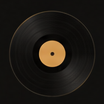
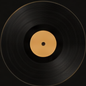
text

diff --git a/app.js b/app.js
@@ -1,5 +1,5 @@
 const media = window.MEDIA || {};
-const ASSET_VERSION = "20260724-2";
+const ASSET_VERSION = "20260724-3";
 
 const source = (label, shortLabel, embed, language = "ru") => ({
   label,
@@ -27,9 +27,9 @@ const library = [
     art: "pulp",
     poster: "./films/Криминальное чтиво/Обложка_криминальное_чтиво.jpg",
     music: [{ title: "Misirlou", artist: "Dick Dale & His Del-Tones", src: "./films/Криминальное чтиво/Dick Dale & His Del Tones - Misirlou.mp3" }],
-    quote: "Идеальное кино, чтобы снова полюбить разговоры ни о чём.",
+    quote: "Путь праведника труден, ибо препятствуют ему себялюбивые и тираны из злых...",
     summary:
-      "Две истории о гангстерах, роковых совпадениях и людях, которые очень стараются выбраться из неприятностей — обычно ещё глубже в них погружаясь.",
+      "Несколько историй из жизни Лос-Анджелеса, которые парадоксальным образом связываются в одну. Киллеры-философы, жена мафиози и боксер-беглец то и дело попадают в абсурдные ситуации, где одно неверное решение меняет всё.",
     sources: [
       {
         label: "Русская озвучка",
@@ -55,9 +55,9 @@ const library = [
     accent: "#bf302b",
     art: "dogs",
     poster: "./films/Бешеные псы/Обложка_бешеные_псы.jpeg",
-    quote: "Когда идеальный план ломается ещё до начала титров.",
+    quote: "Я не оставляю чаевые. Я не верю в них",
     summary:
-      "Ограбление пошло не по плану. Выжившие собираются на складе и пытаются понять, кто из них предатель, пока недоверие становится опаснее полиции.",
+      "Спланированное ограбление ювелирного магазина с самого начала идет не по плану. Выжившие преступники собираются на заброшенном складе, понимая, что среди них есть агент под прикрытием.",
     sources: [
       { label: "Часть 1", shortLabel: "Часть 1", embed: media.reservoirDogsPart1 },
       { label: "Часть 2", shortLabel: "Часть 2", embed: media.reservoirDogsPart2 }
@@ -74,9 +74,9 @@ const library = [
     art: "cunk",
     poster: "./films/Канк на Земле/Обложка_канк_на_земле.webp",
     music: [{ title: "Pump Up the Jam", artist: "Technotronic", src: "./films/Канк на Земле/Technotronic - Pump up the Jam.mp3" }],
-    quote: "Вся история человечества — уверенно, красиво и совершенно неправильно.",
+    quote: "Что было более важным для человечества: изобретение колеса или песня \"Pump Up the Jam\"",
     summary:
-      "Филомена Канк задаёт экспертам главные вопросы цивилизации и с невозмутимым лицом превращает документальный сериал в очень британскую комедию.",
+      "Британский псевдодокументальный проект, где эксцентричная ведущая Филомена Канк путешествует по миру и берет интервью у реальных ведущих историков, антропологов и профессоров, задавая им абсурдные вопросы с абсолютно серьезным лицом.",
     sources: Array.from({ length: 5 }, (_, index) => ({
       label: `Эпизод ${index + 1}`,
       shortLabel: `${index + 1}`,
@@ -87,32 +87,32 @@ const library = [
     id: "acrimony", title: "Раздражительность", originalTitle: "Acrimony", year: "2018",
     type: "Фильм", runtime: "2 ч", accent: "#843d47", art: "dogs",
     poster: "./films/Раздражительность/Обложка_раздражительность.jpg",
-    quote: "Когда преданность превращается в ярость.",
-    summary: "История женщины, которая годами поддерживала мужа, а после распада брака начинает сомневаться, не отдала ли она ему слишком многое.",
+    quote: "Этот с#ка мне должен... Каждый чертов вздох в его теле",
+    summary: "Мелинда — верная и любящая жена, которая годами поддерживала своего мужа-изобретателя, жертвуя ради него деньгами и доверием семьи. Однако, когда его многолетний труд наконец признают, Мелинда начинает подозревать, что муж ведет двойную игру.",
     sources: [source("Русская озвучка", "Русский", media.acrimonyRussian)]
   },
   {
     id: "final-analysis", title: "Окончательный анализ", originalTitle: "Final Analysis", year: "1992",
     type: "Фильм", runtime: "2 ч 4 мин", accent: "#876f92", art: "pulp",
     poster: "./films/Окончательный анализ/Обложка_окончательный_анализ.jpg",
-    quote: "Желание, обман и диагноз, которому нельзя доверять.",
-    summary: "Психиатр оказывается втянут в опасную связь с сестрой своей пациентки — и вскоре уже не понимает, кто здесь жертва, а кто ведёт игру.",
+    quote: "Вы когда-нибудь путали страсть с одержимостью?",
+    summary: "Успешный психиатр берется помочь женщине, страдающей от навязчивых кошмаров. В процессе терапии он знакомится с ее загадочной сестрой, и эта встреча вовлекает его в опасный заговор, где профессиональная этика сталкивается с личным риском.",
     sources: [source("Русская озвучка", "Русский", media.finalAnalysisRussian)]
   },
   {
     id: "once-upon-a-time-in-hollywood", title: "Однажды в… Голливуде", originalTitle: "Once Upon a Time... in Hollywood", year: "2019",
     type: "Фильм", runtime: "2 ч 41 мин", accent: "#d68c3a", art: "cunk",
     poster: "./films/Однажды в… Голливуде/Обложка_однажды_в_голливуде.webp",
-    quote: "Голливуд, каким он был — или каким его хочется помнить.",
-    summary: "Угасающая звезда телевестернов и его дублёр ищут своё место в стремительно меняющемся Голливуде 1969 года.",
+    quote: "В Голливуде все может измениться в одно мгновение",
+    summary: "Лос-Анджелес, 1969 год. Популярный актер вестернов, чья карьера идет на спад, пытается удержаться в меняющейся киноиндустрии вместе со своим неизменным дублером. В это же время по соседству с ними поселяется молодая и успешная кинозвезда Шарон Тейт.",
     sources: [source("Русская озвучка", "Русский", media.onceHollywoodRussian)]
   },
   {
     id: "inglourious-basterds", title: "Бесславные ублюдки", originalTitle: "Inglourious Basterds", year: "2009",
     type: "Фильм", runtime: "2 ч 33 мин", accent: "#a43a2f", art: "dogs",
     poster: "./films/Бесславные ублюдки/Обложка_бесславные_ублюдки.jpg",
-    quote: "История переписывается в кинотеатре.",
-    summary: "Отряд американских солдат и хозяйка парижского кинотеатра независимо друг от друга готовят расплату нацистскому руководству.",
+    quote: "Наш бизнес — убийство нацистов. И поверьте, дела идут в гору",
+    summary: "Во время Второй мировой войны в оккупированной Франции начинает действовать банда американских солдат еврейского происхождения под руководством лейтенанта Альдо Рейна. Их партизанские методы шокируют высшее немецкое командование и нарушают их планы.",
     sources: [
       source("Русская озвучка", "Русский", media.inglouriousRussian),
       source("Оригинальная дорожка", "English", media.inglouriousEnglish, "en")
@@ -122,16 +122,16 @@ const library = [
     id: "the-room-next-door", title: "Комната по соседству", originalTitle: "The Room Next Door", year: "2024",
     type: "Фильм", runtime: "1 ч 47 мин", accent: "#477c73", art: "cunk",
     poster: "./films/Комната по соседству/Обложка_комната_по_соседству.jpg",
-    quote: "Иногда дружба — это просто остаться рядом.",
-    summary: "Две давние подруги встречаются вновь и проводят вместе время, которое заставляет их по-новому взглянуть на жизнь, смерть и близость.",
+    quote: "Смерть — это не конец, если рядом есть тот, кто помнит твою радость",
+    summary: "Писательница Ингрид и военный корреспондент Марта были близкими подругами в молодости, но жизнь развела их. Спустя много лет они случайно встречаются вновь при весьма непростых обстоятельствах, которые заставляют их вспомнить прошлое.",
     sources: [source("Русская озвучка", "Русский", media.roomNextDoorRussian)]
   },
   {
     id: "dark-habits", title: "Нескромное обаяние порока", originalTitle: "Entre tinieblas", year: "1983",
     type: "Фильм", runtime: "1 ч 54 мин", accent: "#a95d73", art: "pulp",
     poster: "./films/Нескромное обаяние порока/Обложка_нескромное_обаяние_порока.jpg",
-    quote: "Святость, порок и Альмодовар в одном монастыре.",
-    summary: "Певица кабаре скрывается в необычном монастыре, где сестры куда больше интересуются человеческими слабостями, чем строгими правилами.",
+    quote: "Грех — это просто еще один способ почувствовать себя живым",
+    summary: "пиздец ебаный..........",
     sources: [
       source("Русская озвучка · плеер 1", "Плеер 1", media.darkHabitsRussian1),
       source("Русская озвучка · плеер 2", "Плеер 2", media.darkHabitsRussian2)
@@ -141,16 +141,16 @@ const library = [
     id: "the-drama", title: "Вот это драма!", originalTitle: "The Drama", year: "Скоро",
     type: "Трейлер", runtime: "Трейлер", accent: "#6f83a5", art: "cunk",
     poster: "./films/Вот это драма!/Обложка_вот_это_драма.jpg",
-    quote: "Пока только первый взгляд — полный фильм ещё впереди.",
-    summary: "Страница будущего фильма: сейчас здесь доступен англоязычный трейлер, а полноценный плеер появится после релиза.",
+    quote: "Если мы устраиваем сцену, то только по первому классу",
+    summary: "История о скрытом соперничестве и амбициях нескольких актрис за кулисами театральной сцены. Борьба за главные роли и личные тайны постепенно накаляют обстановку, превращая подготовку к спектаклю в психологическое противостояние.",
     sources: [source("Трейлер на английском", "English · трейлер", media.theDramaTrailer, "en")]
   },
   {
     id: "pretty-woman", title: "Красотка", originalTitle: "Pretty Woman", year: "1990",
     type: "Фильм", runtime: "1 ч 59 мин", accent: "#d56a76", art: "pulp",
     poster: "./films/Красотка/Обложка_красотка.jpeg",
-    quote: "Сказка о любви на бульваре Голливуда.",
-    summary: "Случайная встреча бизнесмена и девушки по имени Вивиан превращает деловое соглашение в историю, которой никто из них не ожидал.",
+    quote: "Я хочу все. И сказку тоже",
+    summary: "Успешный финансовый магнат Эдвард Льюис решает нанять случайную уличную знакомую, чтобы она сопровождала его на важных деловых ужинах в течение недели. Это прагматичное соглашение неожиданно начинает менять привычную жизнь обоих.",
     sources: [
       source("Русская озвучка · плеер 1", "Плеер 1", media.prettyWomanRussian1),
       source("Русская озвучка · плеер 2", "Плеер 2", media.prettyWomanRussian2)
@@ -160,24 +160,24 @@ const library = [
     id: "eat-pray-love", title: "Ешь, молись, люби", originalTitle: "Eat Pray Love", year: "2010",
     type: "Фильм", runtime: "2 ч 13 мин", accent: "#cb7b4d", art: "cunk",
     poster: "./films/Ешь, молись, люби/Обложка_ешь_молись_люби.jpeg",
-    quote: "Иногда, чтобы найти себя, нужно уехать очень далеко.",
-    summary: "После развода Лиз отправляется через Италию, Индию и Бали, заново учась получать удовольствие, искать равновесие и любить.",
+    quote: "Учитесь выбирать свои мысли, как выбираете в гардеробе одежду каждый день",
+    summary: "Элизабет Гилберт кажется женщиной, у которой есть всё: муж, дом и успешная карьера. Однако однажды она понимает, что живет чужой жизнью, и решает бросить всё, чтобы отправиться в кругосветное путешествие на поиски себя.",
     sources: [source("Русская озвучка", "Русский", media.eatPrayLoveRussian)]
   },
   {
     id: "rrrrr", title: "Миллион лет до нашей эры", originalTitle: "RRRrrrr!!!", year: "2004",
     type: "Фильм", runtime: "1 ч 38 мин", accent: "#aa6c36", art: "dogs",
     poster: "./films/Миллион лет до нашей эры/Обложка_миллион_лет_до_нашей_эры.jpeg",
-    quote: "Первое убийство в истории человечества. Возможно.",
-    summary: "Два доисторических племени спорят о секрете шампуня, пока первое в истории преступление требует первого в истории расследования.",
+    quote: "В мире, где нет слов, выживают только настоящие инстинкты",
+    summary: "Приключенческая история из доисторической эпохи, где первобытный охотник Тумак изгоняется из своего жестокого племени Скал. В поисках нового дома он встречает более развитое и миролюбивое племя Раковин, где знакомится с прекрасной Лоаной.",
     sources: [source("Русская озвучка", "Русский", media.rrrrrRussian)]
   },
   {
     id: "below-her-mouth", title: "Ниже её губ", originalTitle: "Below Her Mouth", year: "2016",
     type: "Фильм", runtime: "1 ч 34 мин", accent: "#9c5262", art: "pulp",
     poster: "./films/Ниже её губ/Обложка_ниже_ее_губ.jpg",
-    quote: "Одна встреча меняет всё, что казалось решённым.",
-    summary: "Неожиданное знакомство заставляет Жасмин пересмотреть привычную жизнь и чувства, которые она прежде не позволяла себе признать.",
+    quote: "Я никогда никого так не чувствовала. Мне страшно, но я не хочу останавливаться",
+    summary: "Даллас только что пережила тяжелое расставание, а Жасмин готовится к свадьбе со своим женихом. Случайная встреча этих двух совершенно разных женщин в ночном Торонто зажигает искру, которая заставляет их усомниться в правильности выбранного пути.",
     sources: [
       source("Оригинальная дорожка", "English", media.belowHerMouthEnglish, "en"),
       externalSource("Русская версия на внешнем сайте · требуется VPN", "Русский · ссылка", media.belowHerMouthRussianPage, "ru")
@@ -187,8 +187,8 @@ const library = [
     id: "loving-annabelle", title: "Полюбить Аннабель", originalTitle: "Loving Annabelle", year: "2006",
     type: "Фильм", runtime: "1 ч 16 мин", accent: "#596d87", art: "cunk",
     poster: "./films/Полюбить Аннабель/Обложка_полюбить_аннабель.jpeg",
-    quote: "Чувства, которым нельзя найти безопасное место.",
-    summary: "Новая ученица католической школы сближается с преподавательницей литературы, ставя обеих перед трудным и опасным выбором.",
+    quote: "Ты не можешь контролировать то, кого ты любишь. Любовь сама выбирает тебя",
+    summary: "Бунтующая дочь сенатора Аннабель попадает в закрытую католическую школу-интернат, где сразу начинает нарушать строгие правила. Внимание девушки привлекает молодая учительница поэзии Симона, которая пытается направить сложного подростка в мирное русло.",
     sources: [
       source("Русская озвучка · 240p", "VK · 240p", media.lovingAnnabelleRussian1),
       source("Русская озвучка · 360p", "VK · 360p", media.lovingAnnabelleRussian2),
@@ -199,8 +199,8 @@ const library = [
     id: "ammonite", title: "Аммонит", originalTitle: "Ammonite", year: "2020",
     type: "Фильм", runtime: "1 ч 58 мин", accent: "#587883", art: "cunk",
     poster: "./films/Аммонит/Обложка_аммонит.jpeg",
-    quote: "На холодном берегу две жизни начинают оттаивать.",
-    summary: "Палеонтолог Мэри Эннинг берёт под опеку молодую женщину, и их сдержанное знакомство постепенно становится глубокой близостью.",
+    quote: "Море забирает все лишнее и оставляет только то, что действительно имеет вес",
+    summary: "Англия, 1840-е годы. Известная в прошлом, но ныне забытая исследовательница Мэри Эннинг живет уединенно на суровом южном побережье. Обеспеченный турист предлагает ей крупную сумму, чтобы Мэри на время взяла на попечение его молодую жену Шарлотту.",
     sources: [
       source("Русская озвучка", "Русский", media.ammoniteRussian),
       externalSource("Английская версия на внешнем сайте", "English · ссылка", media.ammoniteEnglishPage)
@@ -210,8 +210,8 @@ const library = [
     id: "knives-out", title: "Достать ножи", originalTitle: "Knives Out", year: "2019",
     type: "Фильм", runtime: "2 ч 10 мин", accent: "#a48246", art: "pulp",
     poster: "./films/Достать ножи 1/Обложка_достать_ножи_1.jpg",
-    quote: "У каждого в этой семье есть мотив.",
-    summary: "Детектив Бенуа Блан расследует смерть знаменитого писателя, окружённого большой семьёй, где каждый говорит не всю правду.",
+    quote: "У этого дела есть одна странность: оно выглядит как бублик, внутри которого дырка от другого бублика",
+    summary: "Известный автор детективных романов Харлан Тромби празднует свое 85-летие в кругу семьи, а на следующее утро его находят мертвым в собственном кабинете. Разобраться в этом деле нанимают дотошного частного сыщика Бенуа Бланка.",
     sources: [
       source("Русская озвучка", "Русский", media.knivesOutRussian),
       externalSource("Английская версия на внешнем сайте · требуется VPN", "English · ссылка", media.knivesOutEnglishPage)
@@ -221,8 +221,8 @@ const library = [
     id: "glass-onion", title: "Достать ножи: Стеклянная луковица", originalTitle: "Glass Onion: A Knives Out Mystery", year: "2022",
     type: "Фильм", runtime: "2 ч 19 мин", accent: "#d28e3f", art: "cunk",
     poster: "./films/Достать ножи 2/Обложка_достать_ножи_2.jpg",
-    quote: "Самая прозрачная загадка может оказаться самой запутанной.",
-    summary: "Бенуа Блан отправляется на частный остров миллиардера, где игра в убийство быстро становится настоящим расследованием.",
+    quote: "Когда игра становится реальностью, правила приходится переписывать на ходу",
+    summary: "Эксцентричный миллиардер Майлз Брон собирает старых друзей на своем роскошном частном острове в Греции, чтобы устроить детективный квест. Но ситуация выходит из-под контроля, когда среди гостей оказывается знаменитый сыщик Бенуа Бланк.",
     sources: [
       source("Русская озвучка", "Русский", media.glassOnionRussian),
       externalSource("Английская версия на внешнем сайте · требуется VPN", "English · ссылка", media.glassOnionEnglishPage)
@@ -232,8 +232,8 @@ const library = [
     id: "wake-up-dead-man", title: "Достать ножи: Воскрешение покойника", originalTitle: "Wake Up Dead Man: A Knives Out Mystery", year: "2025",
     type: "Фильм", runtime: "2 ч 24 мин", accent: "#705644", art: "dogs",
     poster: "./films/Достать ножи 3/Обложка_достать_ножи_3.jpeg",
-    quote: "У Бенуа Блана новое невозможное дело.",
-    summary: "Третья загадка Бенуа Блана приводит детектива к новому кругу подозреваемых и убийству, которое не желает складываться в простую картину.",
+    quote: "Нечные секреты настолько глубоки, что заставляют мертвецов открывать глаза",
+    summary: "Детектив Бенуа Бланк берется за расследование нового запутанного преступления, которое сталкивает его с миром элиты и старыми семейными тайнами. Ему предстоит применить всю свою проницательность, чтобы отделить ложь от правды.",
     sources: [
       source("Русская озвучка", "Русский", media.wakeUpDeadManRussian),
       externalSource("Английская версия на внешнем сайте · требуется VPN", "English · ссылка", media.wakeUpDeadManEnglishPage)
@@ -244,8 +244,8 @@ const library = [
     type: "Фильм", runtime: "2 ч 55 мин", accent: "#8a5c3d", art: "dogs",
     poster: "./films/Крестный отец 1/Обложка_крестный_отец_1.jpeg",
     music: [{ title: "The Godfather Theme Song", artist: "Nino Rota", src: "./films/Крестный отец 1/The Godfather Theme Song.mp3" }],
-    quote: "Семья, власть и предложение, от которого нельзя отказаться.",
-    summary: "Майкл Корлеоне пытается держаться в стороне от семейного дела, но обстоятельства постепенно ведут его к центру криминальной империи.",
+    quote: "Я сделаю ему предложение, от которого он не сможет отказаться",
+    summary: "История влиятельной мафиозной семьи Корлеоне в послевоенной Америке. Когда на главу клана, Дона Вито, совершается покушение, его младший сын Майкл — герой войны, не желавший иметь ничего общего с криминалом — оказывается перед сложным выбором.",
     sources: [
       source("Русская озвучка", "Русский", media.godfather1Russian),
       source("Оригинальная дорожка · Rutube", "English", media.godfather1English, "en")
@@ -256,8 +256,8 @@ const library = [
     type: "Фильм", runtime: "3 ч 22 мин", accent: "#725345", art: "dogs",
     poster: "./films/Крестный отец 2/Обложка_крестный_отец_2.jpg",
     music: [{ title: "The Godfather Theme Song", artist: "Nino Rota", src: "./films/Крестный отец 2/The Godfather Theme Song.mp3" }],
-    quote: "Империя растёт, а семья становится всё меньше.",
-    summary: "История молодого Вито Корлеоне переплетается с правлением Майкла, который расширяет власть ценой всё большей изоляции.",
+    quote: "Держи своих друзей близко, а врагов еще ближе",
+    summary: "Масштабное эпическое повествование, которое одновременно рассказывает о ранних годах молодого Вито Корлеоне, строящего свою криминальную империю в Нью-Йорке начала века, и о его сыне Майкле, пытающемся удержать и расширить семейный бизнес в 1950-х годах.",
     sources: [
       source("Русская озвучка", "Русский", media.godfather2Russian),
       source("Оригинальная дорожка · Rutube", "English", media.godfather2English, "en")
@@ -268,8 +268,8 @@ const library = [
     type: "Фильм", runtime: "2 ч 42 мин", accent: "#65443b", art: "dogs",
     poster: "./films/Крестный отец 3/Обложка_крестный_отец_3.jpeg",
     music: [{ title: "The Godfather Theme Song", artist: "Nino Rota", src: "./films/Крестный отец 3/The Godfather Theme Song.mp3" }],
-    quote: "Прошлое не отпускает даже тех, кто готов заплатить.",
-    summary: "Постаревший Майкл Корлеоне ищет законный путь для семьи и искупление, но старые связи снова затягивают его в насилие.",
+    quote: "Стоит мне только подумать, что я завязал, как они снова затягивают меня обратно!",
+    summary: "Постаревший Дон Майкл Корлеоне стремится сделать бизнес семьи полностью законным и искупить прошлые грехи перед церковью и обществом. Однако старые связи и амбиции молодого поколения клана постоянно создают новые препятствия.",
     sources: [
       source("Русская озвучка · плеер 1", "Русский · 1", media.godfather3Russian1),
       source("Русская озвучка · плеер 2", "Русский · 2", media.godfather3Russian2),

diff --git a/index.html b/index.html
@@ -6,7 +6,7 @@
     <meta name="theme-color" content="#120d0d">
     <meta name="description" content="Личная фильмотека">
     <title>Выбери историю</title>
-    <link rel="stylesheet" href="./styles.css?v=20260724-2">
+    <link rel="stylesheet" href="./styles.css?v=20260724-4">
   </head>
   <body>
     <div class="grain" aria-hidden="true"></div>
@@ -47,6 +47,6 @@
     </footer>
 
     <script src="./media-config.js?v=20260724-2"></script>
-    <script src="./app.js?v=20260724-2"></script>
+    <script src="./app.js?v=20260724-3"></script>
   </body>
 </html>

diff --git a/styles.css b/styles.css
@@ -601,7 +601,8 @@ body::after { display: none; }
   width: 76px;
   height: 76px;
   background: url("./ui-assets/record.png") center / contain no-repeat;
-  border-radius: 0;
+  border-radius: 50%;
+  overflow: hidden;
   box-shadow: none;
 }
 .record span { display: none; }
